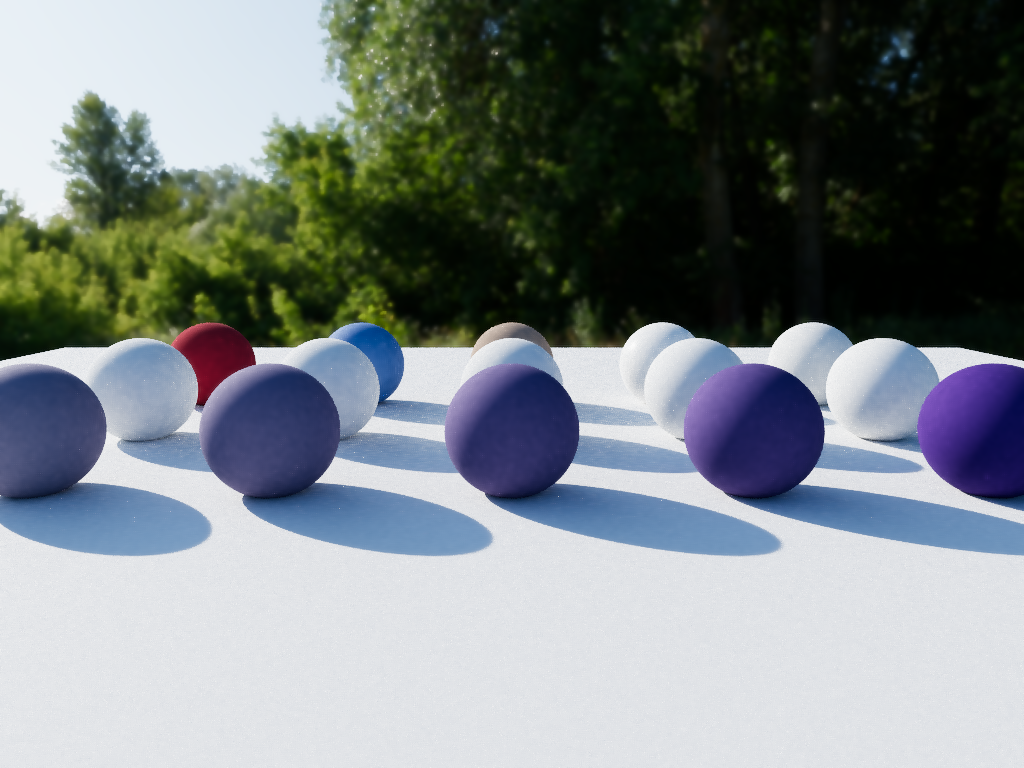
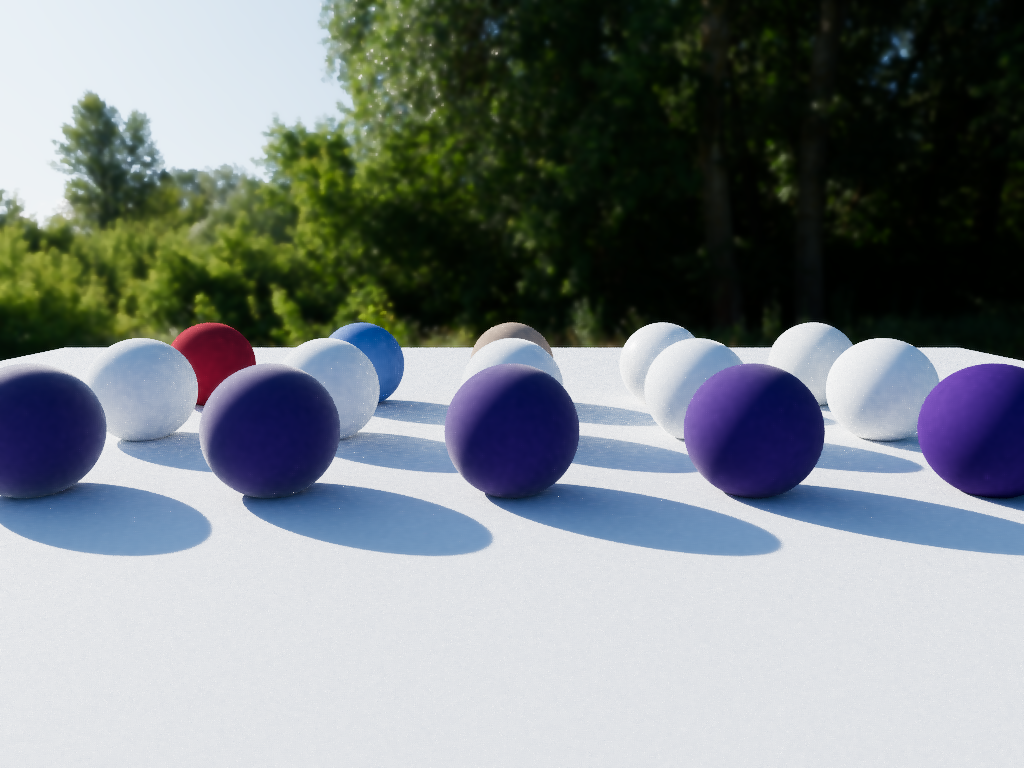
feat(bsdf): wire Zeltner LTC sheen attenuation + oracle/test (H1)
- Replace the crude `1 - 0.35*fuzz` base attenuation with the spec-correct,
  view-dependent `1 - sheenDirAlbedo(N.V)*fuzz` (Zeltner directional albedo).
- Update the C++ BSDF oracle to mirror the Zeltner sheen (sheenDirAlbedo,
  zeltnerSheenBrdfCos, evalSheen) so the white-furnace energy test validates the
  new algorithm; it stays energy-bounded.
- Add ZeltnerSheenIsEnergyConservingAndGrazingPeaked unit test.
- README: material model now documents the Zeltner LTC fuzz/sheen.
- Regenerate the two sheen-affected showcase screenshots (openpbr_fuzz,
  openpbr_organics).
- gitignore local scratch render dirs.

diff --git a/tests/unit/test_bsdf.cpp b/tests/unit/test_bsdf.cpp
@@ -414,6 +414,58 @@ void tfConductorPhasePolarized(float cosTheta, float eta1, glm::vec3 eta2, glm::
     return std::clamp(a + b, 0.0F, 1.0F);
 }
 
+// OpenPBR sheen oracle — Zeltner et al. 2022 LTC sheen, mirroring Harmonia bsdf_shared.slang
+// (which is a faithful port of MaterialX mx_microfacet_sheen.glsl; analytic fits, no LUT).
+[[nodiscard]] float sheenDirAlbedo(float cosTheta, float roughness) noexcept {
+    const float x = std::clamp(cosTheta, 0.0F, 1.0F);
+    const float y = std::clamp(roughness, 0.01F, 1.0F);
+    const float s = y * (0.0206607F + 1.58491F * y) / (0.0379424F + y * (1.32227F + y));
+    const float m = y * (-0.193854F + y * (-1.14885F + y * (1.7932F - 0.95943F * y * y))) / (0.046391F + y);
+    const float o = y * (0.000654023F + (-0.0207818F + 0.119681F * y) * y) / (1.26264F + y * (-1.92021F + y));
+    const float g = std::exp(-0.5F * ((x - m) / s) * ((x - m) / s)) / (s * std::sqrt(2.0F * Math::kPi)) + o;
+    return std::clamp(g, 0.0F, 1.0F);
+}
+
+[[nodiscard]] float sheenLtcAInv(float x, float y) noexcept {
+    return (2.58126F * x + 0.813703F * y) * y / (1.0F + 0.310327F * x * x + 2.60994F * x * y);
+}
+
+[[nodiscard]] float sheenLtcBInv(float x, float y) noexcept {
+    return std::sqrt(std::max(0.0F, 1.0F - x)) * (y - 1.0F) * y * y * y
+         / (0.0000254053F + 1.71228F * x - 1.71506F * x * y + 1.34174F * y * y);
+}
+
+[[nodiscard]] float zeltnerSheenBrdfCos(const glm::vec3& wo, const glm::vec3& wi, float roughness) noexcept {
+    const float nDotV = std::clamp(wo.z, 1.0e-4F, 1.0F);
+    glm::vec3 w;
+    glm::vec3 xAxis(wo.x, wo.y, 0.0F);
+    const float lenSq = glm::dot(xAxis, xAxis);
+    if (lenSq > 1.0e-8F) {
+        xAxis *= (1.0F / std::sqrt(lenSq));
+        const glm::vec3 yAxis(-xAxis.y, xAxis.x, 0.0F);
+        w = glm::vec3(glm::dot(xAxis, wi), glm::dot(yAxis, wi), wi.z);
+    } else {
+        w = wi;
+    }
+    const float aInv = sheenLtcAInv(nDotV, roughness);
+    const float bInv = sheenLtcBInv(nDotV, roughness);
+    const glm::vec3 wo2(aInv * w.x + bInv * w.z, aInv * w.y, w.z);
+    const float l2 = glm::dot(wo2, wo2);
+    const float dO = std::max(wo2.z, 0.0F) * Math::kInvPi;
+    const float k = aInv / std::max(l2, 1.0e-8F);
+    return dO * k * k;
+}
+
+[[nodiscard]] glm::vec3 evalSheen(const glm::vec3& color, float roughness, const glm::vec3& wo, const glm::vec3& wi) noexcept {
+    if (wo.z <= 0.0F || wi.z <= 0.0F) {
+        return glm::vec3(0.0F);
+    }
+    const float r = std::clamp(roughness, 0.01F, 1.0F);
+    const float dirAlbedo = sheenDirAlbedo(wo.z, r);
+    const float brdfCos = zeltnerSheenBrdfCos(wo, wi, r);
+    return color * (dirAlbedo * brdfCos / std::max(wi.z, 1.0e-4F));
+}
+
 [[nodiscard]] glm::vec3 ggxMultiScatterCompensation(const glm::vec3& F0, float nDotV, float alpha) noexcept {
     const float Ess = ggxDirAlbedo(nDotV, alpha);
     return glm::vec3(1.0F) + F0 * ((1.0F / std::max(Ess, 1.0e-3F)) - 1.0F);
@@ -515,7 +567,7 @@ void tfConductorPhasePolarized(float cosTheta, float eta1, glm::vec3 eta2, glm::
 
     LobeWeights weights = computeLobeWeights(mat);
     const float baseLayerScale = (1.0F / std::max(1.0F, coatEta * coatEta * weights.coatWeight * coatDark)) *
-                                 (1.0F - 0.35F * weights.fuzzWeight);
+                                 (1.0F - sheenDirAlbedo(woL.z, std::clamp(mat.fuzzRoughPad.x, 0.0F, 1.0F)) * weights.fuzzWeight);
 
     glm::vec3 result(0.0F);
     if (wiL.z > 0.0F && woL.z > 0.0F) {
@@ -539,7 +591,7 @@ void tfConductorPhasePolarized(float cosTheta, float eta1, glm::vec3 eta2, glm::
                       evalReflectionMicrofacet(glossyF0, glossyF82, woL, wiL, alphaX, alphaY);
         }
         if (weights.fuzzWeight > 0.0F) {
-            result += weights.fuzzWeight * (fuzzColor * Math::kInvPi);
+            result += weights.fuzzWeight * evalSheen(fuzzColor, std::clamp(mat.fuzzRoughPad.x, 0.0F, 1.0F), woL, wiL);
         }
     }
 
@@ -761,6 +813,37 @@ TEST(Bsdf, OpenPbrWhiteFurnaceRepresentativeConfigsStayBounded) {
         EXPECT_GE(energy, 0.0);
         EXPECT_LE(energy, 1.10);
     }
+}
+
+TEST(Bsdf, ZeltnerSheenIsEnergyConservingAndGrazingPeaked) {
+    // OpenPBR sheen = Zeltner 2022 LTC. Two spec-faithful properties must hold:
+    // (1) the directional albedo (energy reflected by the fuzz layer) stays within [0,1] for
+    //     all view angles / roughnesses, so it can validly attenuate the layers beneath it;
+    // (2) sheen is a grazing-angle (retroreflective) effect: directional albedo at a grazing
+    //     view must exceed that at normal incidence for a typical fuzz roughness.
+    for (float r : {0.1F, 0.4F, 0.7F, 1.0F}) {
+        for (float c : {0.05F, 0.3F, 0.6F, 0.95F}) {
+            const float a = sheenDirAlbedo(c, r);
+            EXPECT_GE(a, 0.0F);
+            EXPECT_LE(a, 1.0F);
+        }
+    }
+    const float grazing = sheenDirAlbedo(0.05F, 0.4F);
+    const float normalInc = sheenDirAlbedo(0.98F, 0.4F);
+    EXPECT_GT(grazing, normalInc);
+
+    // The sheen lobe itself must be finite, non-negative, and brighter at a grazing exit than
+    // at a near-normal exit for a fixed grazing view (the velvet rim-light signature).
+    const glm::vec3 wo = glm::normalize(glm::vec3(0.9F, 0.0F, 0.2F));
+    const glm::vec3 wiGrazing = glm::normalize(glm::vec3(-0.9F, 0.0F, 0.15F));
+    const glm::vec3 wiNormal = glm::normalize(glm::vec3(0.0F, 0.0F, 1.0F));
+    const glm::vec3 white(1.0F);
+    const glm::vec3 sGrazing = evalSheen(white, 0.4F, wo, wiGrazing);
+    const glm::vec3 sNormal = evalSheen(white, 0.4F, wo, wiNormal);
+    EXPECT_TRUE(std::isfinite(sGrazing.x) && std::isfinite(sGrazing.y) && std::isfinite(sGrazing.z));
+    EXPECT_GE(sGrazing.x, 0.0F);
+    EXPECT_GE(sNormal.x, 0.0F);
+    EXPECT_GT(sGrazing.x, sNormal.x);
 }
 
 TEST(Bsdf, GgxDirAlbedoLosesEnergyWithRoughness) {

diff --git a/README.md b/README.md
@@ -78,6 +78,12 @@ recovered from `base_color` + `specular_color` via the Gulbrandsen 2014 artist-f
 mapping), so anodized metals show vivid, physically-correct interference colour; dielectric
 bases use the Schlick interface, and the two are blended by `base_metalness`.
 
+**Fuzz/sheen** is the OpenPBR spec model — a faithful port of MaterialX's Zeltner et al. 2022
+"Practical Multiple-Scattering Sheen Using Linearly Transformed Cosines". The LTC coefficients
+and the sheen directional albedo are closed-form analytic fits (no lookup table), and that
+directional albedo also drives the physically-correct, view-dependent darkening of the layers
+beneath the fuzz.
+
 ### Color pipeline
 - Scene-referred rendering in a selectable **working color space**: linear **Rec.2020**
   (default) or linear **Rec.709**, chosen per scene via `working_color_space` in the
